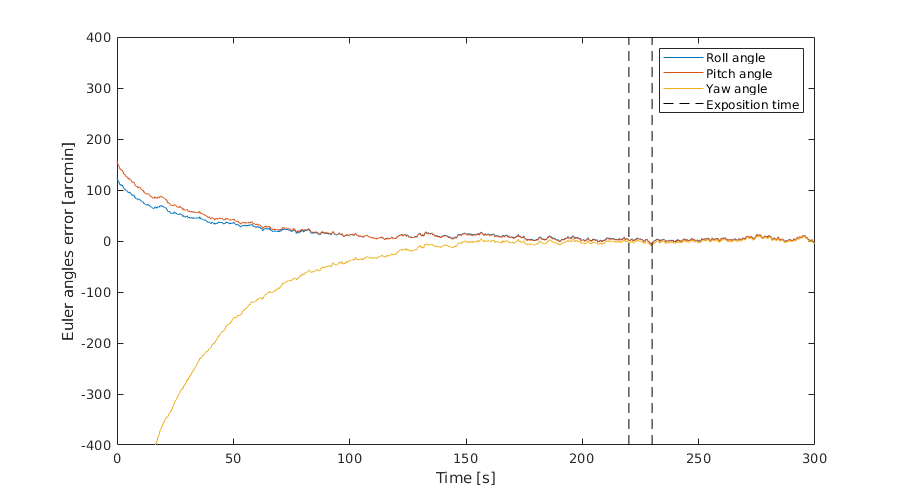
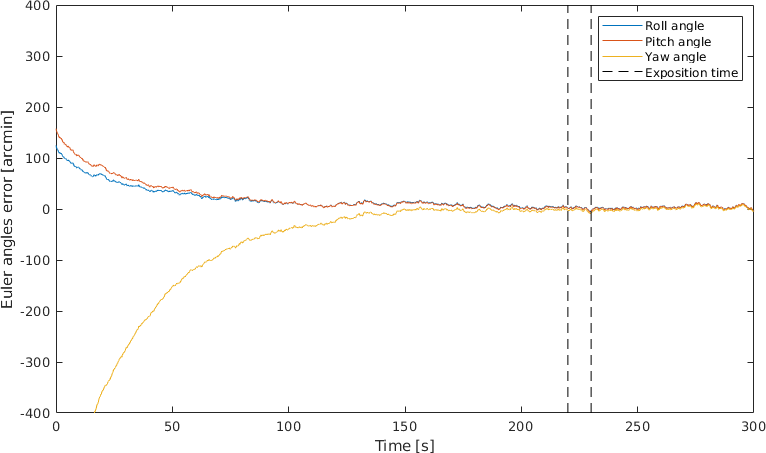
TOtal end of day three

diff --git a/latex/chapters/2-toolbox/2-2-orbit.tex b/latex/chapters/2-toolbox/2-2-orbit.tex
@@ -94,14 +94,14 @@
     % The body is assumed to be rigid?
     % Non perturbed orbit?
 
-
+\clearpage
 \subsection{Reference Frames}\label{sec:frames}
     % \dots\textit{introduction}\dots
     To find the states of the chosen object, one has to first describe the coordinate system and the reference points used for this definition. Most useful ones from the perspective of the spacecraft \ac{aocs} design are described below and their relationship is presented in \autoref{fig:frames}.
 
     \begin{figure}[H]
         \centering
-        \includegraphics[width=0.8\textwidth]{2-toolbox/frames.png}
+        \includegraphics[width=1\textwidth]{2-toolbox/frames.png}
         \caption{Satellite Reference Frames\cite{6ecef-frames}}
         \label{fig:frames}
     \end{figure}
@@ -109,7 +109,7 @@
     \subsubsection{Satellite Body Frame}
         Satellite Body Frame has its origin at the center of mass of the spacecraft, with axes directions chosen to fit the design of the spacecraft. For example, for observation missions, most often one of the axes corresponds to the axis of satellite's optical instrument. Position and velocity vectors in this frame will be further noted as $\textbf{r}_\textbf{B}$ and $\textbf{v}_\textbf{B}$ respectively.
 
-    \subsubsection{Norht, East, Down}
+    \subsubsection{North, East, Down}
         \ac{ned} is a local tangent plane coordinate frame. It is fixed to the body of the satellite, with $Z_{NED}$ axis pointing towards the center of the Earth, $X_{NED}$ axis oriented in the direction of north and $Y_{NED}$ towards east. The most popular application of \ac{ned} frame is for aircraft and spacecraft, when most objects of interest are below the vehicle. Therefore it is convenient to be able to reference the position of the target with positive value. Position and velocity vectors in this frame will be further noted as $\textbf{r}_\textbf{NED}$ and $\textbf{v}_\textbf{NED}$ respectively.
 
     \subsubsection{Earth-centered Inertial}
@@ -119,7 +119,7 @@
         The \ac{ecef}, is a frame of reference can with origin in Earth's center of mass and it's axes are parallel with international reference pole ($Z_{ECEF}$ axis) and international reference meridian ($X_{ECEF}$ axis), with $Y_{ECEF}$ axis being vector cross product of other two. The \ac{ecef} frame includes information about rotation of the Earth, hence a point which would be fixed in the \ac{eci} frame would be progressing with time in the \ac{ecef} frame. Vectors in this frame will be further noted as $\textbf{r}_{\textbf{ECEF}}$ and $\textbf{v}_{\textbf{ECEF}}$.
         %todo: find citation
 
-
+\clearpage
 \subsection{Coordinates Transformations}
     Since for different purposes various reference frames and coordinate systems have to be used, it is necessary to have the means to transform vectors between them. As for reference frames the solution is to find a \ac{dcm}, that is a 3-by-3 matrix which can be used to transform three-dimensional vector $\textbf{x}$ into another vector $\textbf{y}$ with the following equation:
     \begin{equation}
@@ -205,14 +205,14 @@
 \clearpage
 \subsection{Environment}\label{sec:environment}
     % Environment block is responsible for outputting few parameters, which are then used by the Satellite subsystem
-    \vfill
+    % \vfill
     \begin{figure}[H]
         \centering
         \includegraphics[width=0.7\textwidth]{2-toolbox/environment.png}
         \caption{SCARS Parts Library Environment module blocks}
         \label{fig:environment}
     \end{figure}
-    \vfill
+    % \vfill
 
     Environment module is responsible for producing environmental parameters such as gravity, magnetic field, atmosphere density, etc., at the position of the simulated spacecraft. The reasoning behind choosing these specific sources are in the description of each sub-module. The main premise was that the source has to be relevant for the choice of actuators. All models available in SCARS Parts Library are also collected in a single, unified block called \textbf{Environment}, as seen on \autoref{fig:environment_block}, and use bus described in \autoref{sec:buses} as an output. These solutions allow convenient implementation of Environment module in user's model, but can negatively affect computing time.
 

diff --git a/latex/chapters/1-introduction.tex b/latex/chapters/1-introduction.tex
@@ -14,7 +14,7 @@
     Taking the experience of how challenging and time-consuming was the process of learning how to produce a reliable simulation of IRISC control system and the knowledge of significance of preliminary design, author decided to produce and publish a simulation that is a useful for purposes of initial spacecraft design and for beginner engineers to learn how to build a reliable simulation. 
     
 \subsection{Scope}
-    The thesis covers the process of development of the toolbox for rapid prototyping of satellite's control systems. \autoref{sec:introduction} describes the aim of this work and discusses the topic of prototyping tools. \autoref{sec:toolbox} goes into details about the architecture, the features and methods of implementation of a toolbox created to fulfil the aims of the thesis - the \ac{scars} Toolbox. In addition it includes the description of methods of connecting \ac{scars} with various visualization tools. \autoref{sec:documentation} explains the documentation and usage of \ac{scars}, while in \autoref{sec:examples} there are examples of real life applications of the toolbox. Finally, \autoref{sec:conclusions} discusses the conclusions from the development process and the possibilities for improvements of \ac{scars}.
+    The thesis covers the process of development of the toolbox for rapid prototyping of satellite's control systems. \autoref{sec:introduction} describes the aim of this work and discusses the topic of prototyping tools. \autoref{sec:toolbox} goes into details about the architecture, the features and methods of implementation of a toolbox created to fulfil the aims of the thesis - the \ac{scars} Toolbox. In addition it includes the description of methods of connecting \ac{scars} with various visualization tools. \autoref{sec:documentation} explains the documentation and usage of \ac{scars}, while in \autoref{sec:examples} contains examples of real life applications of the toolbox. Finally, \autoref{sec:conclusions} discusses the conclusions from the development process and the possibilities for improvements of \ac{scars}.
 
 \subsection{Aim}\label{sec:aim}
     The aim of this thesis work is to build and provide a ready to use open source product - a toolbox for small and low budget satellite projects.  The toolbox features allow conducting initial design of spacecraft's \ac{adcs}, which means that is provides tools for, i.a. simulation of spacecraft orbit, testing the feasibility of various actuation methods and testing the effectiveness of different control algorithms in given use cases. That software would then allow smaller and inexperienced teams of spacecraft designers to better prepare for design milestones like \ac{pdr}, when there is not enough time to create a full simulation of their spacecraft \ac{adcs} subsystems. Besides the toolbox being a tool for practical use, the thesis also serves as as a review of available solutions, so it can be used by future control engineers as a learning material. The idea is that some parts of the proposed model cab be removed from the model while the students, for learning purposes, are tasked with designing a substitution.
@@ -29,7 +29,7 @@
         \item \textbf{Share the toolbox to be available online}, with principles of open-source software in mind.
     \end{itemize}
 
-    Furthermore, the objectives that are set for the design of the toolbox itself are described in Chapter \ref{toolbox:objectives}.
+    Furthermore, the objectives that are set for the design of the toolbox itself are described in \autoref{toolbox:objectives}.
 
 % \subsection{Digital prototyping tools}
 % \todo[inline]{refer to CAE software}

diff --git a/latex/chapters/4-examples.tex b/latex/chapters/4-examples.tex
@@ -95,7 +95,7 @@
                          
             \begin{figure}[H]
                 \centering
-                \includegraphics[width=1\textwidth, height=160px]{4-examples/example_error.png}
+                \includegraphics[width=1\textwidth]{4-examples/example_error.png}
                 \caption{Plot of Euler angle error against reference angles, derived from geographical coordinates and satellite position}
                 \label{fig:example_error}
             \end{figure}
@@ -104,7 +104,7 @@
                          
             \begin{figure}[H]
                 \centering
-                \includegraphics[width=1\textwidth, height=160px]{4-examples/example_zoom.png}
+                \includegraphics[width=1\textwidth]{4-examples/example_zoom.png}
                 \caption{Plot of Euler angle error against reference angles, derived from geographical coordinates and satellite position, in focus on time between 200 and 250 seconds}
                 \label{fig:example_zoom}
             \end{figure}
@@ -162,7 +162,7 @@
 
             \begin{figure}[H]
                 \centering
-                \includegraphics[width=1\textwidth, height=160px]{4-examples/pwsat2-detumble.png}
+                \includegraphics[width=1\textwidth]{4-examples/pwsat2-detumble.png}
                 \caption{Results from \ac{scars} simulation, with magnetorquers set up for detumbling}
                 \label{fig:detumble}
             \end{figure}
@@ -174,7 +174,7 @@
                          
             \begin{figure}[H]
                 \centering
-                \includegraphics[width=1\textwidth, height=160px]{4-examples/scars-deorbit.png}
+                \includegraphics[width=1\textwidth]{4-examples/scars-deorbit.png}
                 \caption{Results from \ac{scars} simulation, with drag sail included}
                 \label{fig:scars-deorbit}
             \end{figure}
@@ -189,13 +189,6 @@
             \end{figure}
 
             Simulation of PW-Sat2 deorbitation showcases the SCARS Toolbox' ability of performing long-term simulation.
-            
-            % \begin{figure}[H]
-            %     \centering
-            %     \includegraphics[width=1\textwidth, height=160px]{example-image-b}
-            %     \caption{Results from \ac{scars} simulation, with magnetorquer-driven attitude correction}
-            %     \label{fig:scars-deorbit3}
-            % \end{figure}
 
 
         % \subsubsection{PROBA-1}
@@ -346,14 +339,14 @@
                          
         \begin{figure}[H]
             \centering
-            \includegraphics[width=1\textwidth, height=160px]{4-examples/bode_error.png}
+            \includegraphics[width=1\textwidth]{4-examples/bode_error.png}
             \caption{Plot of Euler angle error against reference angles, derived from geographical coordinates and satellite position}
             \label{fig:bode_error}
         \end{figure}
                      
         \begin{figure}[H]
             \centering
-            \includegraphics[width=1\textwidth, height=160px]{4-examples/bode_zoom.png}
+            \includegraphics[width=1\textwidth]{4-examples/bode_zoom.png}
             \caption{Plot of Euler angle error against reference angles, derived from geographical coordinates and satellite position, in focus on time between 200 and 250 seconds}
             \label{fig:bode_zoom}
         \end{figure}

diff --git a/latex/chapters/2-toolbox/2-6-visualization.tex b/latex/chapters/2-toolbox/2-6-visualization.tex
@@ -35,7 +35,7 @@
 
         \begin{figure}[H]
             \centering
-            \includegraphics[width=1\textwidth, height=280px]{2-toolbox/vrml.png}
+            \includegraphics[width=1\textwidth]{2-toolbox/vrml.png}
             \caption{Example of Virtual World satellite visualization}
             \label{fig:vrml}
         \end{figure}
@@ -62,21 +62,21 @@
 
         %https://help.agi.com/stk/11.0.1/Content/stk/importfiles-02.htm#timePosVelAcc
 
+        Data produced by a simulation of a simple model, consisting only of \textbf{Environment} and \textbf{Satellite Dynamics} blocks created with SCARS Toolbox was exported into  \verb|.e| and \verb|.a|, from which first lines are shown in mentioned Appendixes. The results were imported into \ac{stk} and can be seen on \autoref{fig:stk-3d} and \autoref{fig:stk-ground}.
+        
         \begin{figure}[H]
             \centering
-            \includegraphics[width=1\textwidth]{2-toolbox/stk_3d.png}
+            \includegraphics[width=0.91\textwidth]{2-toolbox/stk_3d.png}
             \caption{Example of STK 3D satellite visualization}
             \label{fig:stk-3d}
         \end{figure}
 
         \begin{figure}[H]
             \centering
-            \includegraphics[width=1\textwidth, height=280px]{2-toolbox/stk_groundtrack.png}
+            \includegraphics[width=0.91\textwidth]{2-toolbox/stk_groundtrack.png}
             \caption{Example of STK ground track representation}
             \label{fig:stk-ground}
         \end{figure}
-
-        Data produced by a simulation of a simple model, consisting only of \textbf{Environment} and \textbf{Satellite Dynamics} blocks created with SCARS Toolbox was exported into  \verb|.e| and \verb|.a|, from which first lines are shown in mentioned Appendixes. The results were imported into \ac{stk} and can be seen on \autoref{fig:stk-3d} and \autoref{fig:stk-ground}.
 
 
     \subsubsection{Kerbal Space Program}\label{sec:ksp}
@@ -84,12 +84,4 @@
         % The aim of this visualization method was to build a sample satellite in \ac{ksp}, simulate it in \ac{scars} and execute a Hohmann Transfer within a game, using simulation outputs as game inputs.
 
         The connection between MATLAB and \ac{ksp} is possible because of fanmade \ac{krpc} mod. It creates an API server running alongside the game, with which calls can be made using already written clients in most popular languages, like C++, Python, Lua, Java, etc. Integrating it with MATLAB is a difficult task, as MATLAB does not provide simple means for threading, which means that inputs for the game have to be precalculated to work in real time. Moreover, there is no \ac{krpc} library written directly for MATLAB, therefore a simple Python bridge was written to parse the data taken from the game, compare them with pre-generated \ac{scars} simulation scenario outputs and send them to \ac{ksp} as in-game \ac{aocs} subsystem inputs.
-
-        % \begin{figure}[H]
-        %     \centering
-        %     \includegraphics[width=1\textwidth, height=100px]{example-image-b}
-        %     \caption{Example of kRPC Python client code}
-        %     \label{fig:krcp}
-        % \end{figure}
-
         % \dots\textit{rest description and screenshots of visualization}\dots

diff --git a/latex/thesis_main.tex b/latex/thesis_main.tex
@@ -2,6 +2,21 @@
 
 
 \usepackage[utf8]{inputenc}
+
+
+\usepackage{tocloft}
+    \renewcommand\cftsecfont{\bfseries}
+    \renewcommand\cftsecpagefont{\bfseries}
+    \renewcommand\cftsubsubsecfont{\footnotesize}
+    \renewcommand\cftsubsubsecpagefont{\footnotesize}
+    \setlength{\cftbeforesecskip}{0.1cm}
+    \setlength{\cftbeforesubsecskip}{0.0cm}
+    \setlength{\cftbeforesubsubsecskip}{0.0cm}
+    \renewcommand\cftsecafterpnum{\vskip0.0cm}
+    \renewcommand\cftsubsecafterpnum{\vskip0.0cm}
+    \renewcommand\cftsubsubsecafterpnum{\vskip0.0cm}
+    % \setlength{\cftbeforesecskip}{1pt}
+
 \usepackage[nottoc]{tocbibind} %Includes "References" in the table of contents
 \usepackage[left=3.5cm, right=3.5cm, top=3.5cm, bottom=3.5cm]{geometry}
 \usepackage{sectsty} % For pagebreak after each section
@@ -20,15 +35,19 @@
 \usepackage{chngcntr} %Figure numbering fro chapters
     \counterwithin{figure}{section}
     \counterwithin{table}{section}
+\PassOptionsToPackage{hyphens}{url}
 \usepackage[hidelinks]{hyperref} %For adding "Figure" to ref (use \autoref) also hidelinks for not showing boxes
     \def\sectionautorefname{Chapter}
+    \def\subsectionautorefname{Section}%
+    \def\subsubsectionautorefname{Section}%
+
+\usepackage[hyphens]{url} %For urls in bibliography
 \usepackage{indentfirst} %For indentation of first paragraph
 \usepackage{amsmath} %For equations alignment
 \usepackage{mwe} %For example-image-a
 \usepackage{float} %For "H" option in figure positioning
 \usepackage{enumitem} %For getting rid of separation in itemize
     \setlist{nolistsep}
-% \usepackage{url} %For urls in bibliography
 \usepackage{moresize}
 \usepackage{tabularx} %For word wrap in tables
 \usepackage[font=small]{caption} %For smaller figure captions
@@ -49,12 +68,6 @@
 \usepackage{array}
 \usepackage{adjustbox}
 
-% \usepackage{tocloft}
-%     % \renewcommand\cftchapfont{\bfseries}
-%     \renewcommand\cftsecfont{\small}
-%     % \renewcommand\cftchappagefont{\LARGE\bfseries}
-%     \renewcommand\cftsecpagefont{\LARGE}
-
 \usepackage{hanging}
     \newlength{\hangwidth}
     \newcommand{\newhang}[1]{\settowidth{\hangwidth}{#1}\par\hangpara{\hangwidth}{1}#1}
@@ -62,6 +75,9 @@
 \usepackage{pdfpages}
 
 \newcolumntype{C}[1]{>{\centering\let\newline\\\arraybackslash\hspace{0pt}}m{#1}}
+% \let\subsectionautorefname{Section}
+% \let\subsubsectionautorefname{Section}
+
 
 \renewcommand{\arraystretch}{1.0} % Default value: 1
 
@@ -92,7 +108,11 @@
 \include{misc/acknowledgement}
 \clearpage
 
-\tableofcontents
+\begingroup
+    % \setcounter{tocdepth}{2}
+    \setlength{\parskip}{0cm}
+    \tableofcontents
+\endgroup
 \clearpage
 
 
@@ -117,8 +137,6 @@
 \clearpage
 
 \begingroup
-
-
 \renewcommand{\arraystretch}{1} %
 \setlength{\parskip}{0cm}
 

diff --git a/latex/chapters/appendices/linearization.tex b/latex/chapters/appendices/linearization.tex
@@ -49,7 +49,7 @@
     \subsubsection*{Step 3: Trim the model}
         After setting up the model I/O signals, the user can open \textit{Linear Analysis Tool} by choosing \textit{Model Linearizer} from either \textit{Apps} or \textit{Linearization} tabs. Once loaded, the initial conditions have to be set up for the linearization process. To do that, the user can trim the model by choosing \textit{Trim Model...} from \textit{Model Initial Condition} in \textit{Setup} section of \textit{Linear Analysis} tab.
          
-        For this example, the only checkboxes that need to be marked in opened dialog are \textit{Steady State} for all three states of both \verb|Satellite Dynamics/6DOF ECEF (Quaternion)/p,q,r| and \verb|Satellite Dynamics/Euler_B|, as can be seen on \autoref{fig:lin_trimming}. After that the user has to click the \textit{Start trimming} button.
+        For this example, the only checkboxes that need to be marked in opened dialog are \textit{Steady State} for all three states of both \verb|Satellite Dynamics/6DOF ECEF| \verb|(Quaternion)/p,q,r| and \verb|Satellite Dynamics/Euler_B|, as can be seen on \autoref{fig:lin_trimming}. After that the user has to click the \textit{Start trimming} button.
 
         \begin{figure}[H]
             \centering
